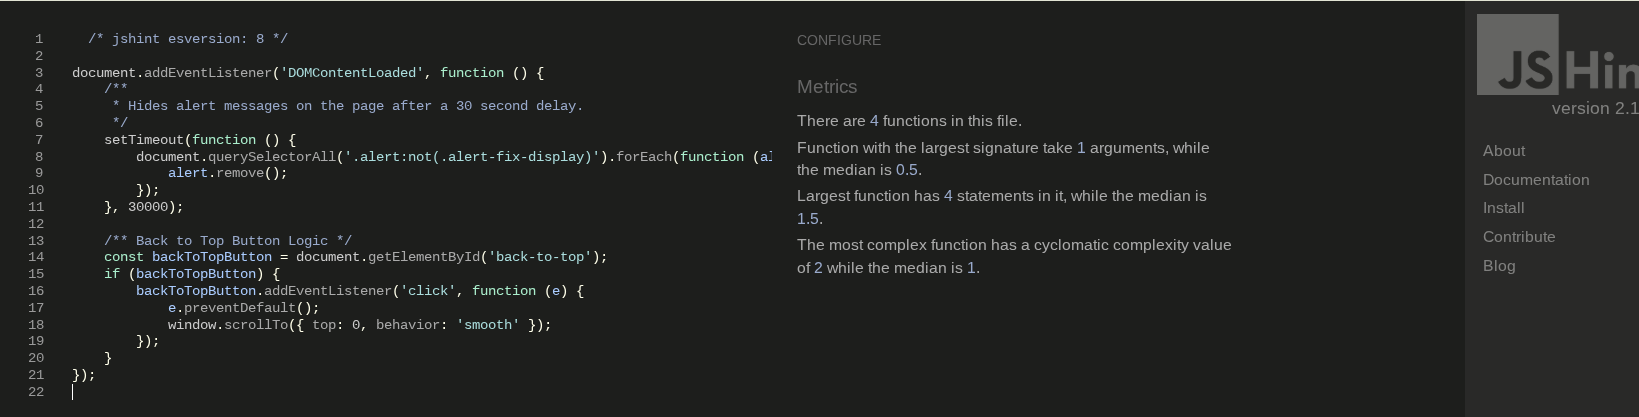
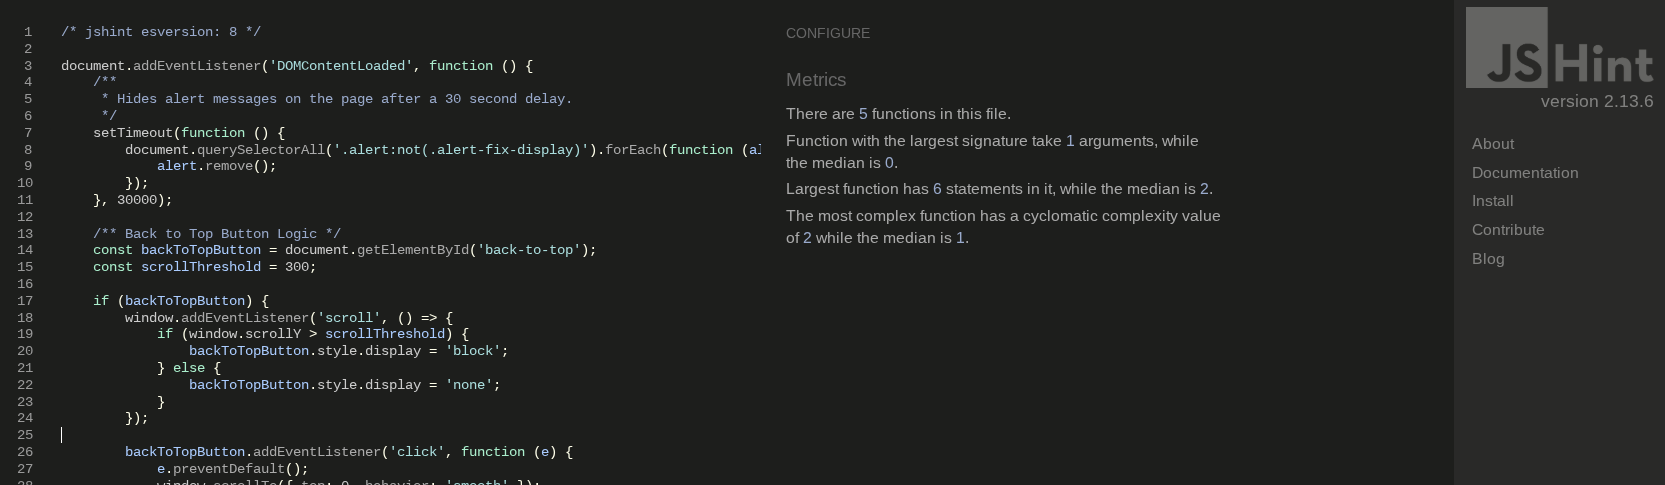
Update TESTING.md JS validation, add images

diff --git a/templates/base.html b/templates/base.html
@@ -228,26 +228,26 @@
         </div>
         <!-- Custom JS -->
         <script src="{% static 'js/base.js' %}"></script>
-        <script type="text/javascript" src="//s3.amazonaws.com/downloads.mailchimp.com/js/mc-validate.js"></script>
-        <script type="text/javascript">
-        (function($) {
-            window.fnames = new Array();
-            window.ftypes = new Array();
-            fnames[0]='EMAIL';
-            ftypes[0]='email';
-            fnames[1]='FNAME';
-            ftypes[1]='text';
-            fnames[2]='LNAME';
-            ftypes[2]='text';
-            fnames[3]='ADDRESS';
-            ftypes[3]='address';
-            fnames[4]='PHONE';
-            ftypes[4]='phone';
-            fnames[5]='BIRTHDAY';
-            ftypes[5]='birthday';
-            fnames[6]='COMPANY';
-            ftypes[6]='text';}(jQuery));
-            var $mcj = jQuery.noConflict(true);
+        <script src="//s3.amazonaws.com/downloads.mailchimp.com/js/mc-validate.js"></script>
+        <script>
+            (function($) {
+                window.fnames = new Array();
+                window.ftypes = new Array();
+                fnames[0]='EMAIL';
+                ftypes[0]='email';
+                fnames[1]='FNAME';
+                ftypes[1]='text';
+                fnames[2]='LNAME';
+                ftypes[2]='text';
+                fnames[3]='ADDRESS';
+                ftypes[3]='address';
+                fnames[4]='PHONE';
+                ftypes[4]='phone';
+                fnames[5]='BIRTHDAY';
+                ftypes[5]='birthday';
+                fnames[6]='COMPANY';
+                ftypes[6]='text';}(jQuery));
+                var $mcj = jQuery.noConflict(true);
         </script>
         {% block postload_js %}
         {% endblock %}       

diff --git a/booking/static/booking/js/payment_page.js b/booking/static/booking/js/payment_page.js
@@ -23,9 +23,6 @@ $(document).ready(function () {
     const billingPostcodeInput = $('#id_billing_postcode');
     const billingCountrySelect = $('#id_billing_country');
 
-        // Custom Modal elements
-    const cancelButton = $('#cancel-booking-button');
-    const cancellationConfirmModal = $('#cancellationConfirmModal');
 
     // Global Stripe variables
     let stripe = null;

diff --git a/manage_booking/templates/manage_booking/booking_reschedule_confirm.html b/manage_booking/templates/manage_booking/booking_reschedule_confirm.html
@@ -280,11 +280,11 @@
     </div>
 </div>
 <div id="loading-overlay">
-    <h1 class="text-light logo-font loading-spinner">
+    <div class="text-light logo-font loading-spinner">
         <span class="icon">
             <i class="fas fa-3x fa-sync-alt fa-spin"></i>
         </span>
-    </h1>
+    </div>
 </div>
 
 <!-- Booking Policy Modal -->

diff --git a/booking/templates/booking/booking_form_base.html b/booking/templates/booking/booking_form_base.html
@@ -60,10 +60,10 @@
     </div>
 </div>
 <div id="loading-overlay">
-    <h1 class="text-light logo-font loading-spinner">
+    <div class="text-light logo-font loading-spinner">
         <span class="icon">
             <i class="fas fa-3x fa-sync-alt fa-spin"></i>
         </span>
-    </h1>
+    </div>
 </div>
 {% endblock %}

diff --git a/TESTING.md b/TESTING.md
@@ -259,9 +259,21 @@ These errors, however, are not causing any problem in the signing up ang signing
 
 ### JS Validation:
 
-- [Full JS Validation Report]
+- No errors or warning messages were found when passing through the official [JSHint](https://jshint.com/)
 
-- No errors or warning messages were found when passing through the official [JSHint]
+* Base JS
+
+![Base JS](documentation/validation/base_js_validation.png)
+
+* Payment Page JS
+
+![Payment Page JS](documentation/validation/payment_page_js_validation.png)
+
+* Custom Country Select Widget JS
+
+![Custom Country Select Widget JS](documentation/validation/country_widget_js_validation.png)
+
+
 
 ### Python Validation:
 
